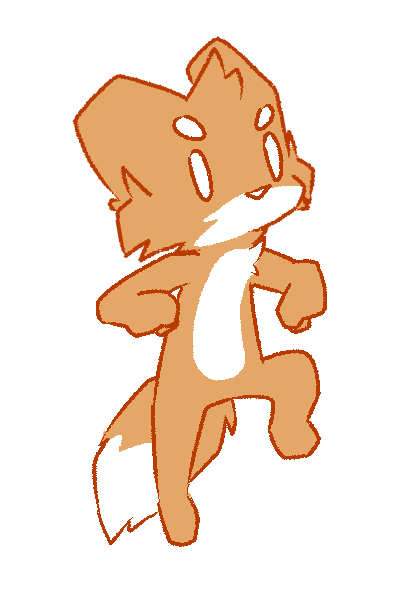
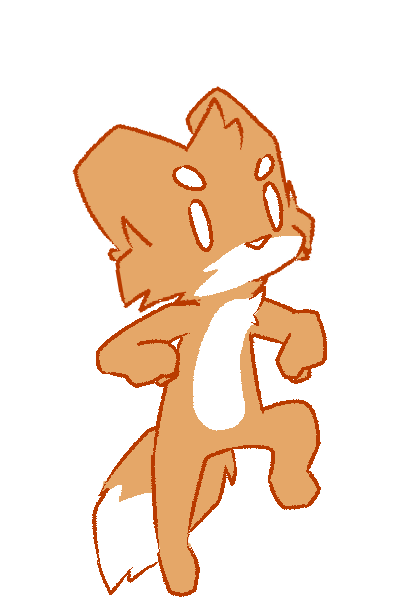
Implemented jump state

Changed region(s): [[0.18, 0.06, 0.84, 1.0]]

diff --git a/core/src/main/java/dev/lyze/sar/components/player/PlayerJumpStateComponent.java b/core/src/main/java/dev/lyze/sar/components/player/PlayerJumpStateComponent.java
@@ -9,7 +9,7 @@ import lombok.var;
 
 public class PlayerJumpStateComponent extends Component {
     @Getter private final float scale = 8f;
-    @Getter private final float maxTime = 0.5f;
+    @Getter private final float maxTime = 0.8f;
 
     @Getter @Setter private float time;
 
@@ -21,10 +21,7 @@ public class PlayerJumpStateComponent extends Component {
     };
 
     public float calculateOffset() {
-        var mapped = MathUtils.map(0, maxTime, 0, 1, time);
-        float v = interpolation.apply(mapped) * scale;
-        System.out.println(time + ": " + v);
-        return v;
+        return interpolation.apply(MathUtils.map(0, maxTime, 0, 1, time)) * scale;
     }
 
     public boolean isFinished() {

diff --git a/core/src/main/java/dev/lyze/sar/systems/player/ApplyJumpStateOffsetSystem.java b/core/src/main/java/dev/lyze/sar/systems/player/ApplyJumpStateOffsetSystem.java
@@ -20,6 +20,15 @@ public class ApplyJumpStateOffsetSystem extends IteratingSystem {
         var position = positionMapper.get(entityId).getPosition();
         var rotation = rotationMapper.get(entityId).getRotation();
 
-        position.add(0, (float) (jumpState.calculateOffset() * Math.cos(rotation)));
+        float cos = (float)Math.cos(rotation);
+        float sin = (float)Math.sin(rotation);
+
+        var x = 0;
+        var y = jumpState.calculateOffset();
+
+        float newX = x * cos - y * sin;
+        float newY = x * sin + y * cos;
+
+        position.add(newX, newY);
     }
 }

diff --git a/core/src/main/java/dev/lyze/sar/systems/player/PlayerJumpStateSystem.java b/core/src/main/java/dev/lyze/sar/systems/player/PlayerJumpStateSystem.java
@@ -34,9 +34,9 @@ public class PlayerJumpStateSystem extends IteratingSystem {
 
         jumpState.setTime(jumpState.getTime() + world.getDelta());
         sprite.setAnimation(constants.getPlayerAir());
+        hitbox.setHeight(1.5f);
 
         if (jumpState.isFinished()) {
-            System.out.println("HI");
             sprite.setAnimation(constants.getPlayerLanding());
 
             world.edit(entityId)

diff --git a/core/src/main/java/dev/lyze/sar/utils/Constants.java b/core/src/main/java/dev/lyze/sar/utils/Constants.java
@@ -11,7 +11,7 @@ import lombok.var;
 
 public class Constants extends Component {
     @Getter private final TextureAtlas main;
-    @Getter private final boolean debug = false;
+    @Getter private final boolean debug = true;
 
     @Getter private final Animation<TextureAtlas.AtlasRegion> playerCrouchIn, playerCrouchOut, playerFall, playerIdle, playerJump, playerAir, playerLanding;
 
